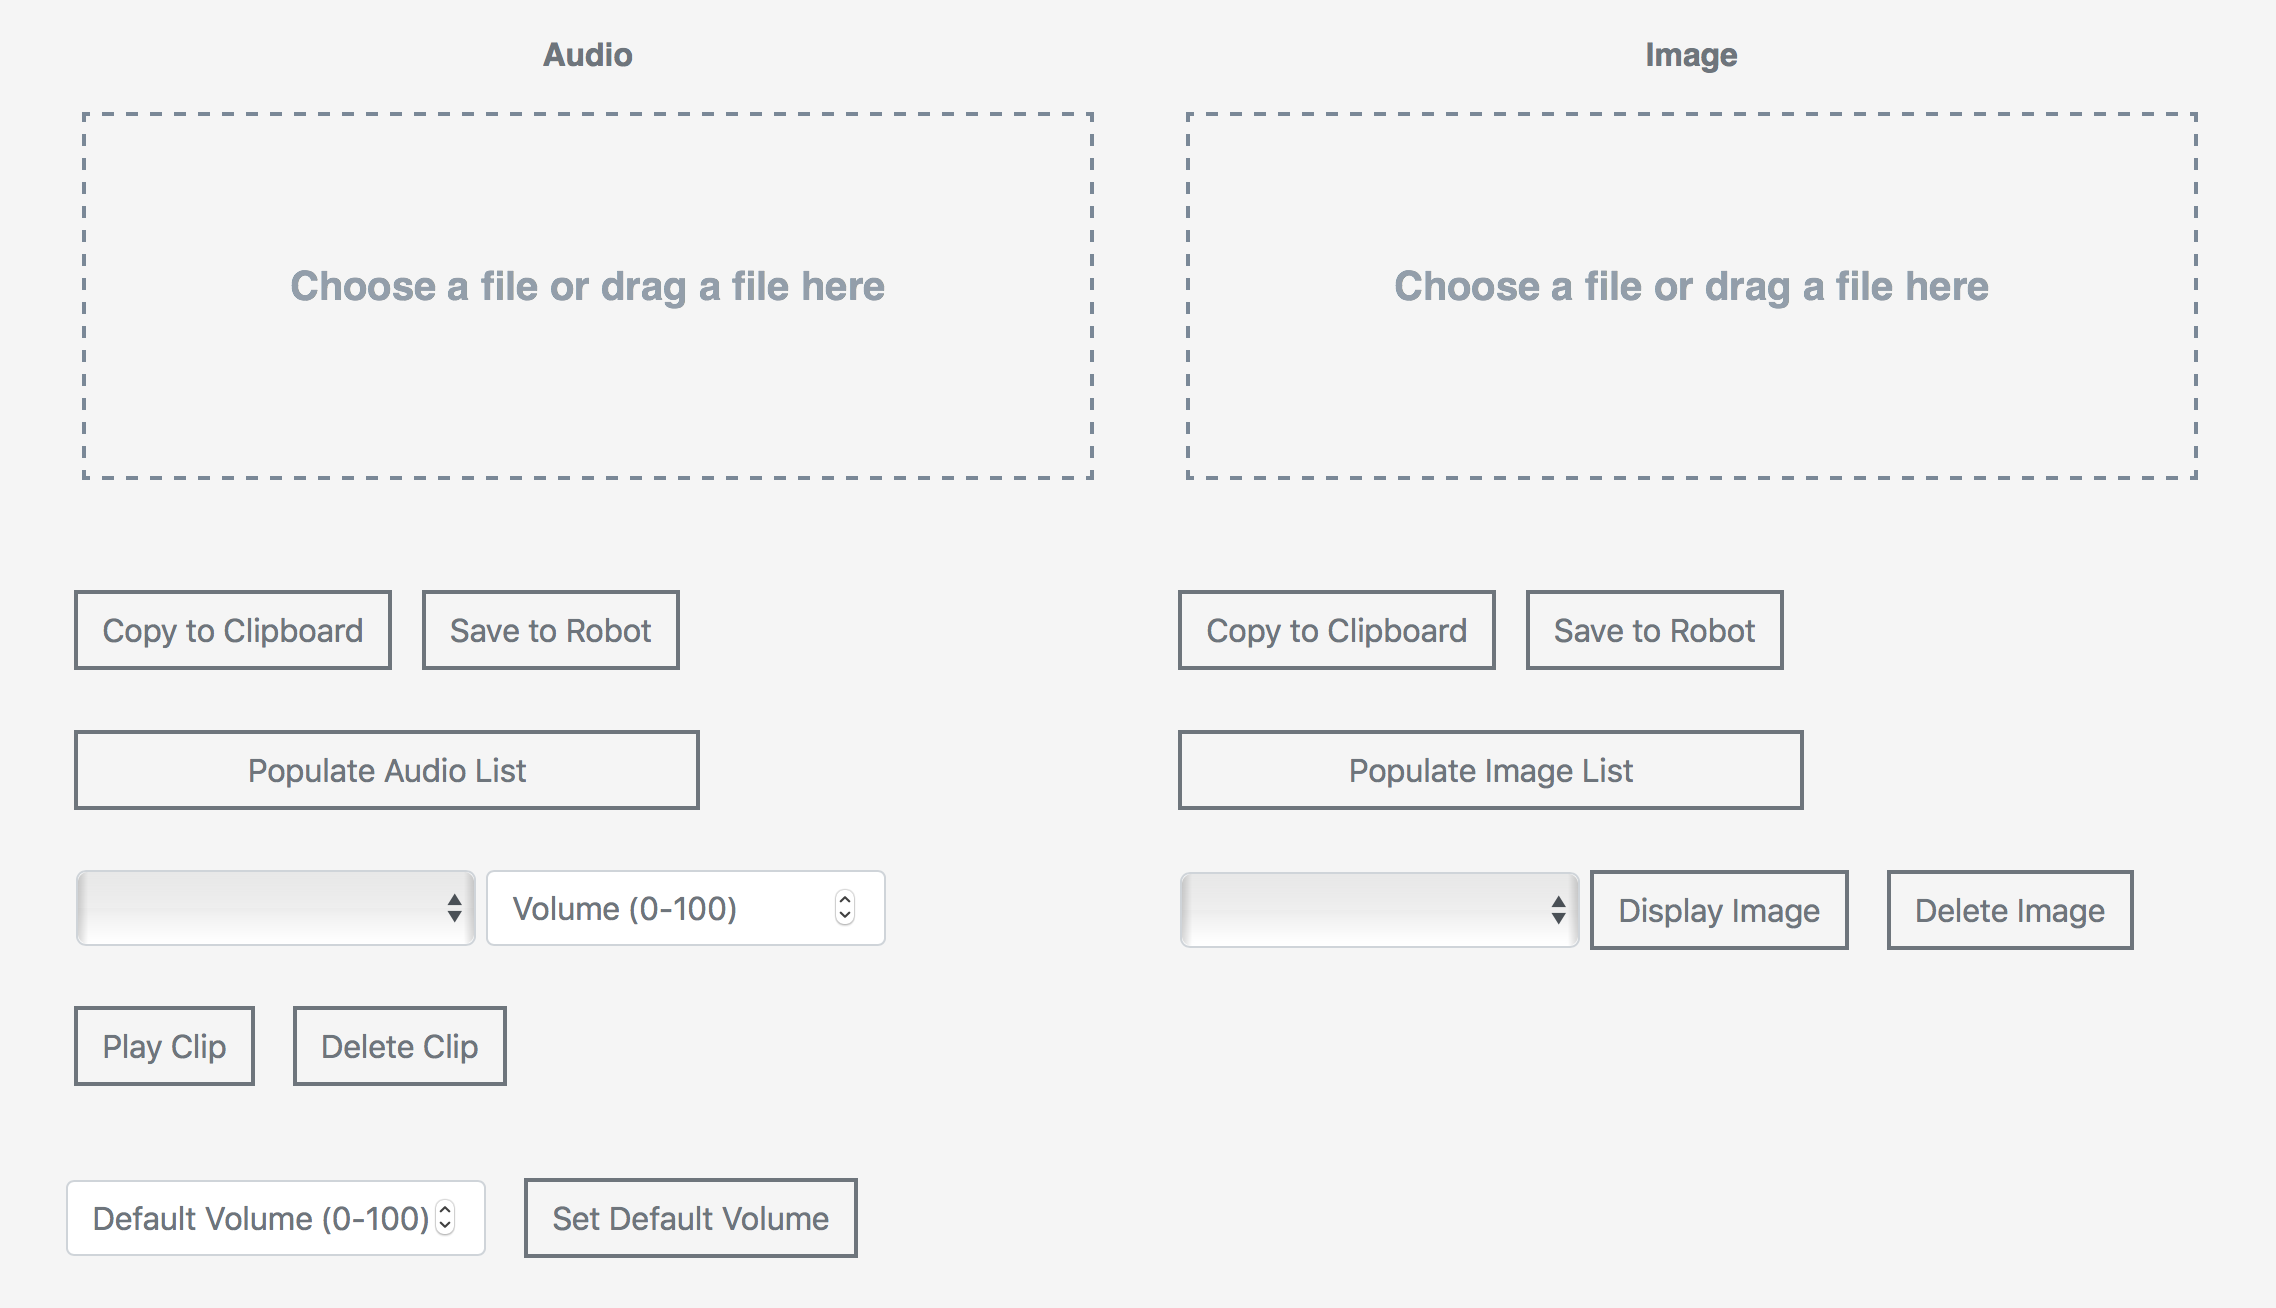
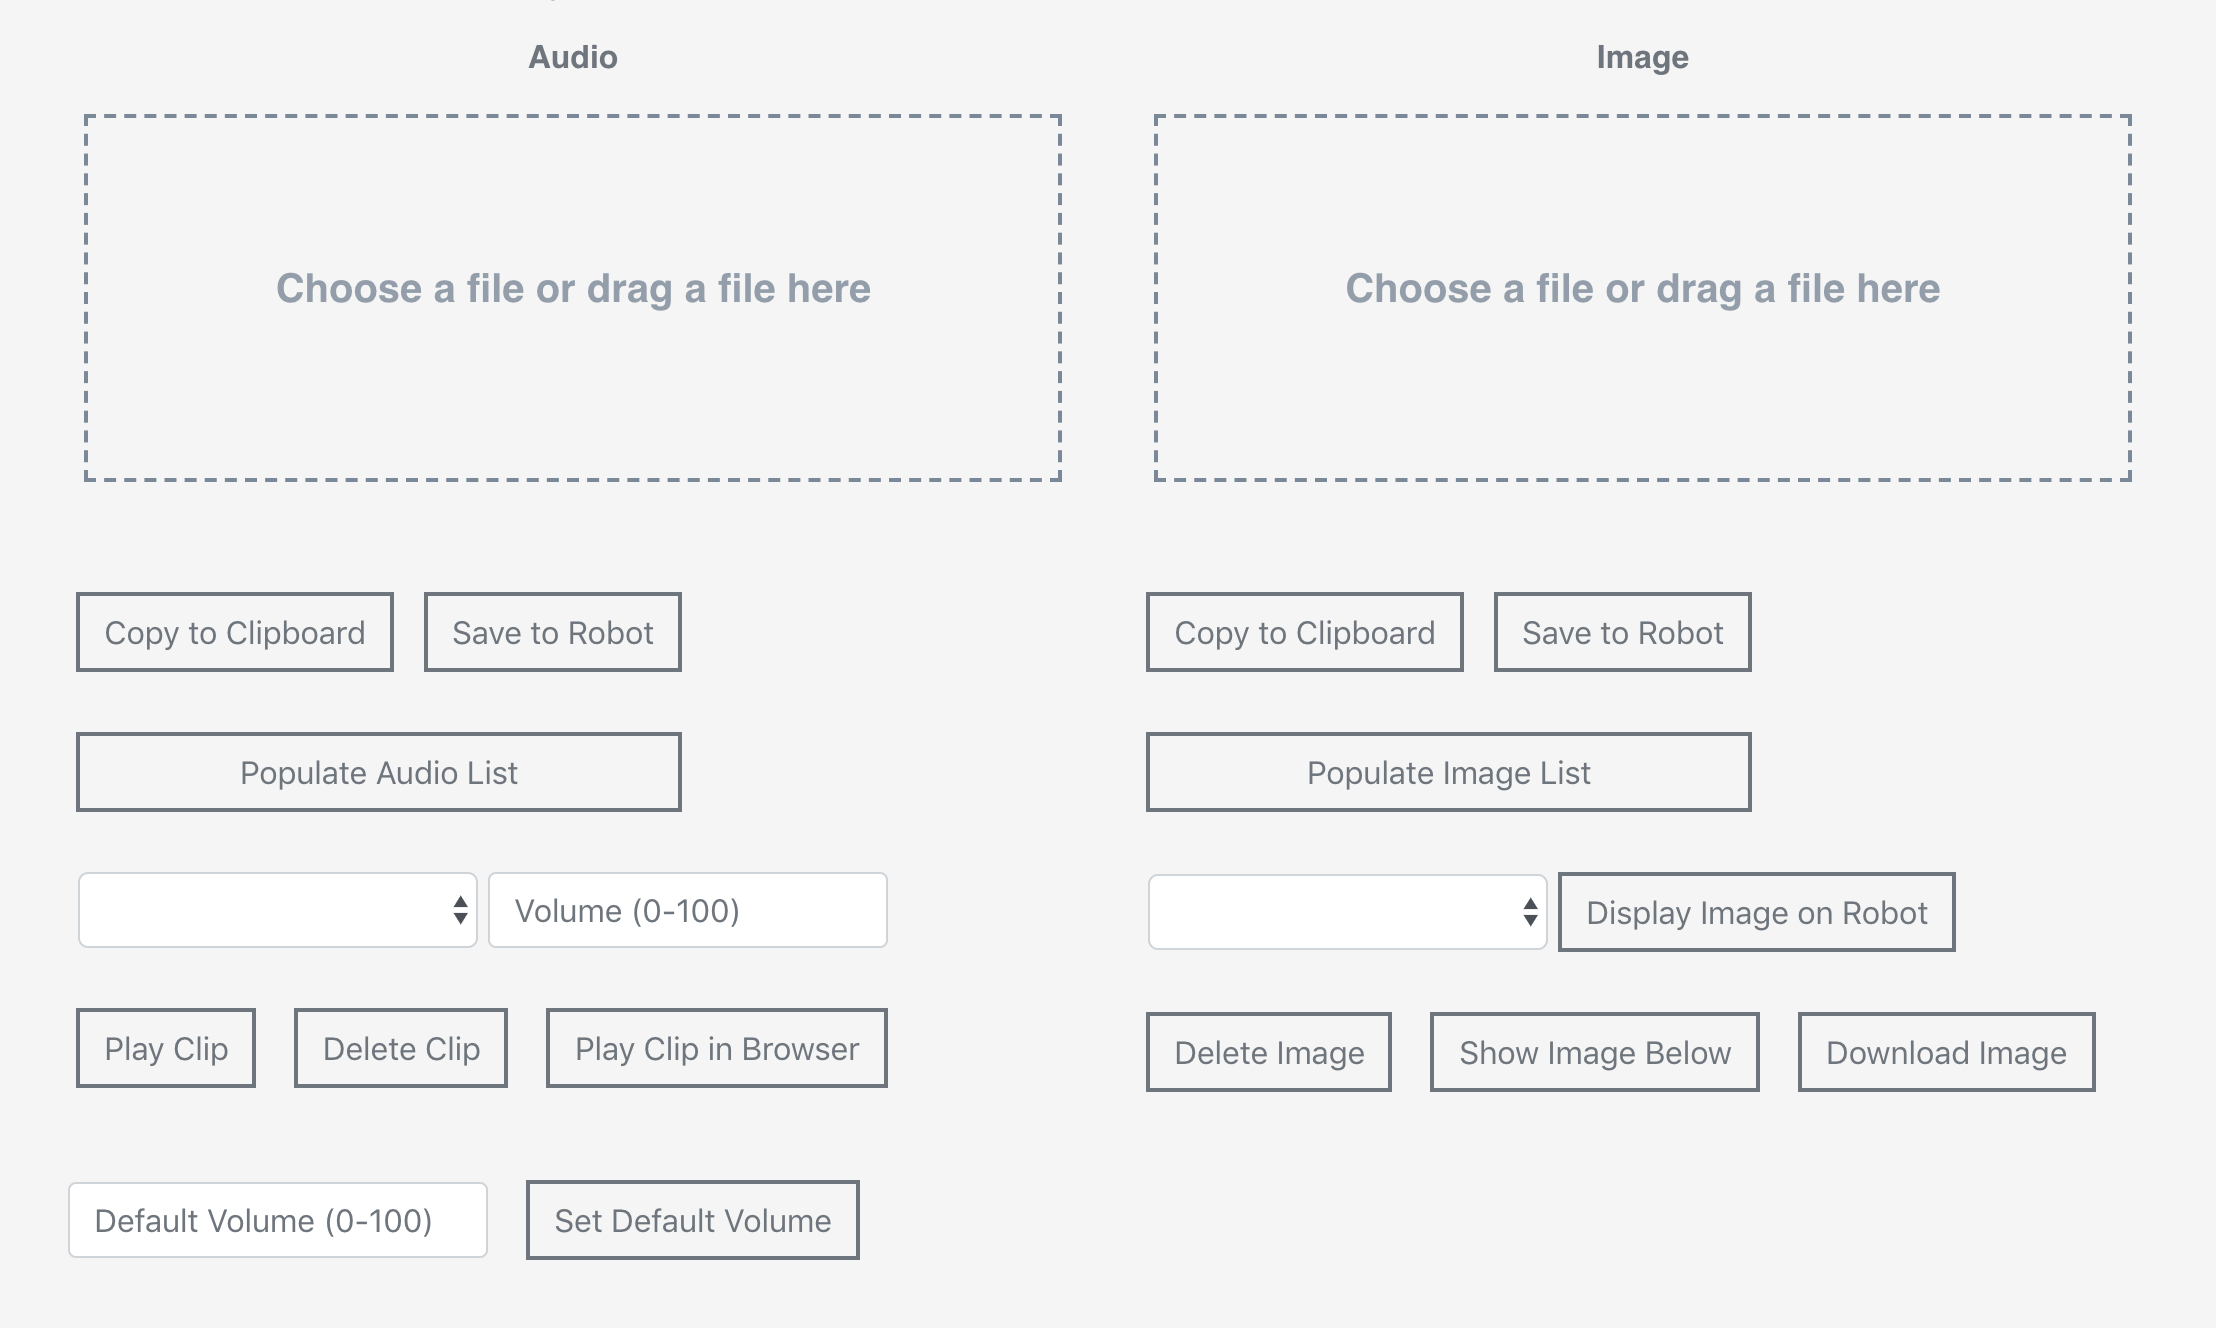
Update API Explorer docs

diff --git a/src/content/onboarding/3-ways-to-interact-with-misty/api-explorer.md b/src/content/onboarding/3-ways-to-interact-with-misty/api-explorer.md
@@ -23,7 +23,7 @@ As with the companion app and Blockly, when using the API Explorer, **make sure 
 ## Managing Audio and Image Files
 Misty comes with a number of default system image files that display on her screen, as well as default audio files that she can play. To add your own sounds and images to Misty, follow these steps.
 
-**Note: The processes for working with audio and image files on Misty are the same.**
+**Note: The processes for working with audio and image files on Misty are the same, with the exception that image files can be downloaded to your computer from the API Explorer.**
 ![Asset management controls](../../../assets/images/explorer_asset_management.png)
 
 ### Adding a custom audio or image file to Misty
@@ -39,12 +39,16 @@ Would you like to have Misty sing a song or play a particular sound when her fac
 2. After you choose a file, select the **Save to Robot** button. A message pops up to confirm the file is being saved.
 3. Once the upload is complete, you can confirm your file has been saved by clicking the **Populate Audio List** or **Populate Image List** button. Scroll through the list to find the file you just saved.
 
+### Playing audio files
+1. Click the **Populate Audio List** button to get a list of the current audio files saved to your robot.
+2. Choose the listed file to play. 
+3. Click the **Play Clip** button to hear Misty play the clip, or click the **Play Clip in Browser** button to hear it in your browser.
 
-### Playing or displaying a file
-
-1. Click the **Populate Audio List** or **Populate Image List** button to get a list of the current files saved to your robot.
-2. Choose the listed file to play or display.
-3. Click the **Play Clip** or **Display Image** button. You should immediately hear Misty play the audio clip or see the image appear on her screen.
+### Displaying and downloading images
+1. Click the **Populate Image List** button to get a list of the current image files saved to your robot.
+2. Choose the listed file to display or download.
+3. Click the **Display Image on Robot** button to see the image appear on Misty's screen, or click the **Show Image Below** button to view the image in your browser.
+4. Click the **Download Image** button to download the chosen image to your computer.
 
 
 ### Deleting a custom audio or image file from Misty
@@ -67,7 +71,7 @@ There is an option in the API explorer to convert audio or image file data to a 
 
 ## Driving Misty
 There are a variety of ways to use the API Explorer to drive Misty.
- ![Driving controls](../../../assets/images/locomotion_controls.png)
+ ![Locomotion controls](../../../assets/images/locomotion_controls.png)
 
 ### Drive Time
 1. First, use **Select a motion** to select the driving motion you want Misty to perform.
@@ -94,6 +98,7 @@ When using **Drive Time by Value**, it helps to understand how linear velocity (
 
 ### Manual Driving
 You can use these controls to drive Misty in a variety of directions.
+ ![Manual driving controls](../../../assets/images/manual_driving_controls.png)
 
 1. Click a directional button, and Misty will start driving.
 2. Adjust the **Velocity** level, if she is going too quickly or too slowly.
@@ -163,6 +168,13 @@ You can use the API Explorer to move Misty's head with the following controls:
 
 **Note: Misty I only provides movement along one axis: pitch. This means that up and down motions are all that can be controlled for Misty I.**
 ![Head commands](../../../assets/images/head_commands.png)
+
+
+## Taking Pictures - ALPHA
+
+You can use the API Explorer to take pictures with Misty's 4K camera and her Occipital Structure Core depth sensor.
+
+![Camera controls](../../../assets/images/camera_controls.png)
 
 
 ## Mapping & Tracking - ALPHA
